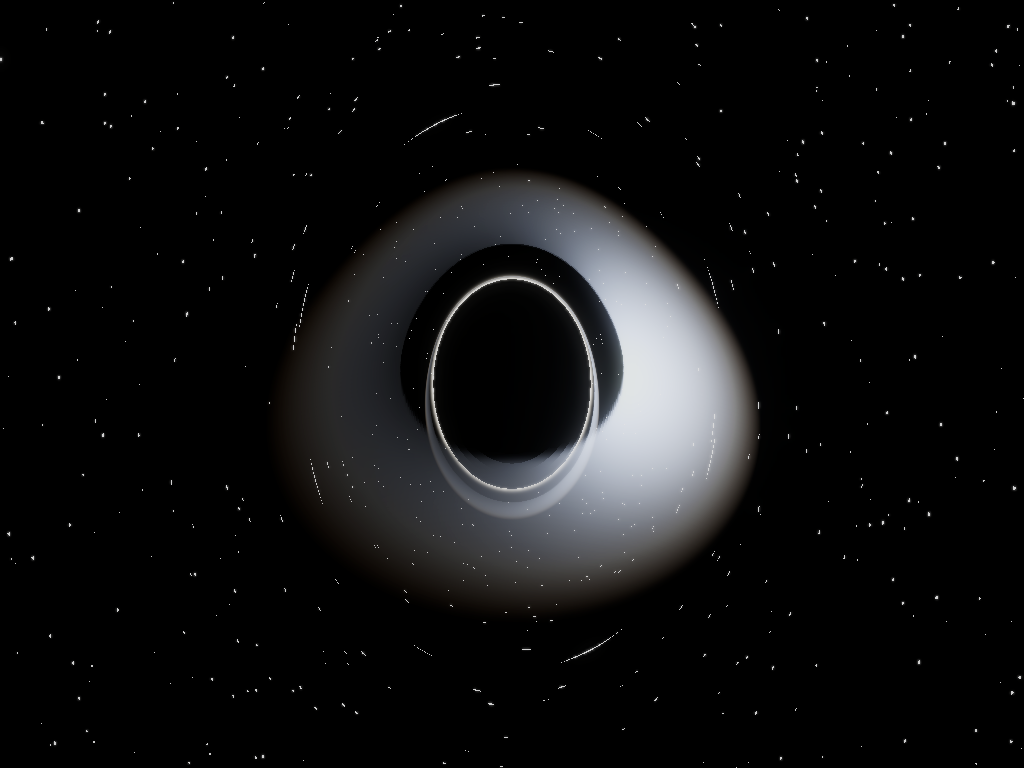
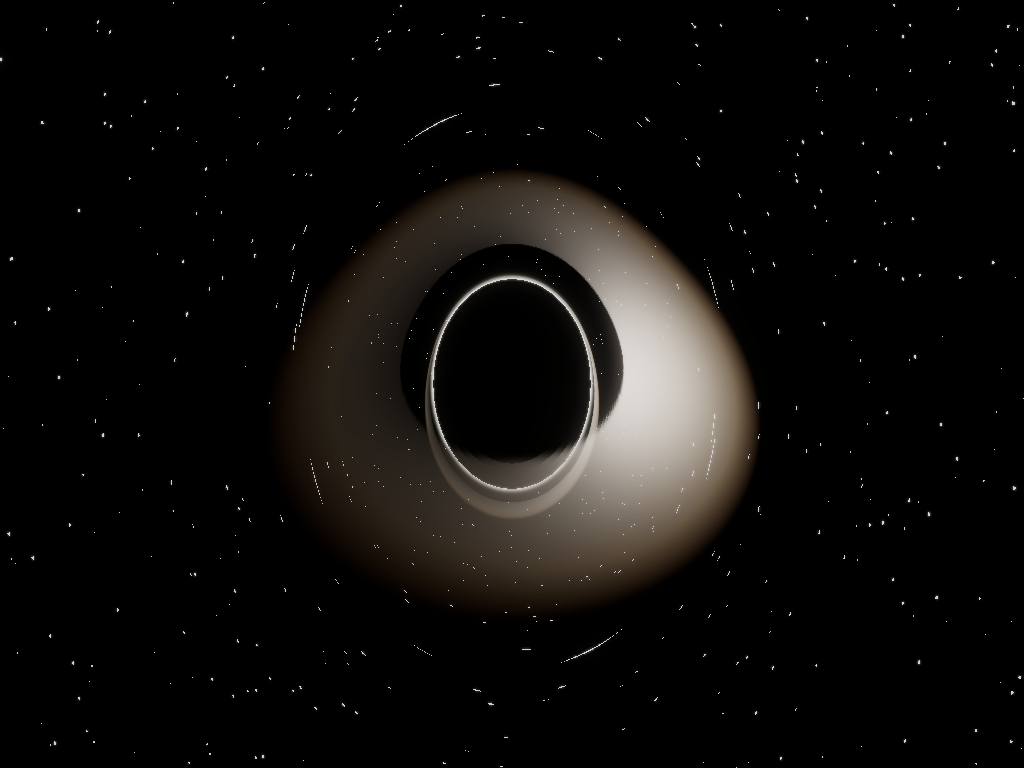
feat: 강착원반 색조를 인스펙터에서 조절 가능하게 직렬화 (기본 옅은 주황)

Changed region(s): [[0.4062, 0.25, 0.75, 0.75]]

diff --git a/claude-unity-project/Assets/BlackHoleSim/Runtime/BlackHoleLensController.cs b/claude-unity-project/Assets/BlackHoleSim/Runtime/BlackHoleLensController.cs
@@ -16,6 +16,7 @@ namespace BlackHoleSim
         [SerializeField] float diskDensity = 1.2f;
         [SerializeField] float diskTempInnerKelvin = 18000f;
         [SerializeField] float diskTempOuterKelvin = 3000f;
+        [SerializeField] Color diskColorTint = new Color(1f, 0.78f, 0.55f); // 옅은 주황
 
         [Header("Relativity")]
         [SerializeField, Range(0f, 1f)] float beamingStrength = 1f;
@@ -37,6 +38,7 @@ namespace BlackHoleSim
         static readonly int BHDiskDensity = Shader.PropertyToID("_BHDiskDensity");
         static readonly int BHDiskTempInner = Shader.PropertyToID("_BHDiskTempInner");
         static readonly int BHDiskTempOuter = Shader.PropertyToID("_BHDiskTempOuter");
+        static readonly int BHDiskColorTint = Shader.PropertyToID("_BHDiskColorTint");
         static readonly int BHBeaming = Shader.PropertyToID("_BHBeaming");
         static readonly int BHRedshift = Shader.PropertyToID("_BHRedshift");
         static readonly int BHPhotonRing = Shader.PropertyToID("_BHPhotonRing");
@@ -66,6 +68,7 @@ namespace BlackHoleSim
             Shader.SetGlobalFloat(BHDiskDensity, diskDensity);
             Shader.SetGlobalFloat(BHDiskTempInner, diskTempInnerKelvin);
             Shader.SetGlobalFloat(BHDiskTempOuter, diskTempOuterKelvin);
+            Shader.SetGlobalColor(BHDiskColorTint, diskColorTint);
             Shader.SetGlobalFloat(BHBeaming, beamingStrength);
             Shader.SetGlobalFloat(BHRedshift, redshiftStrength);
             Shader.SetGlobalFloat(BHPhotonRing, photonRing);

diff --git a/README.md b/README.md
@@ -63,6 +63,7 @@ Packages/io.realvirtual.mcp/      # Unity MCP 브릿지 (에이전트 제어)
 | `diskDensity` | 1.2 | 원반 밀도(광학 깊이 스케일) |
 | `diskTempInnerKelvin` | 18000 | 원반 내측 온도(K) — `BlackBodyColor` 입력 |
 | `diskTempOuterKelvin` | 3000 | 원반 외측 온도(K) |
+| `diskColorTint` | (1, 0.78, 0.55) 옅은 주황 | 원반 색조 틴트 — 흑체색에 곱해짐 |
 | `beamingStrength` (0~1) | 1 | 도플러 빔ing 강도 |
 | `redshiftStrength` (0~1) | 1 | 중력 적색편이 강도 |
 | `photonRing` (0~4) | 1.5 | 포톤 링 강조 계수 |